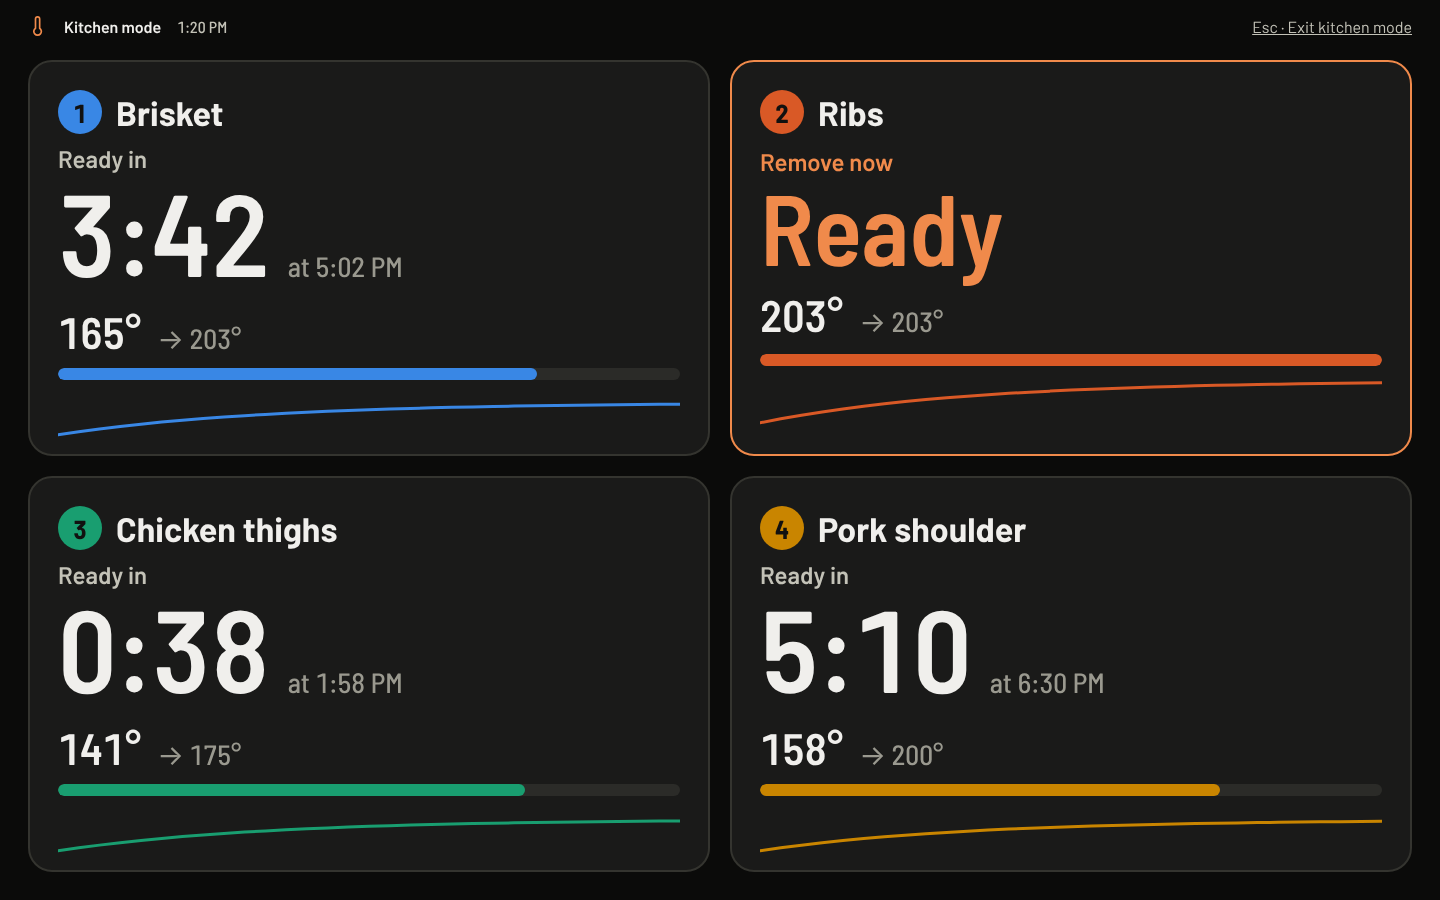
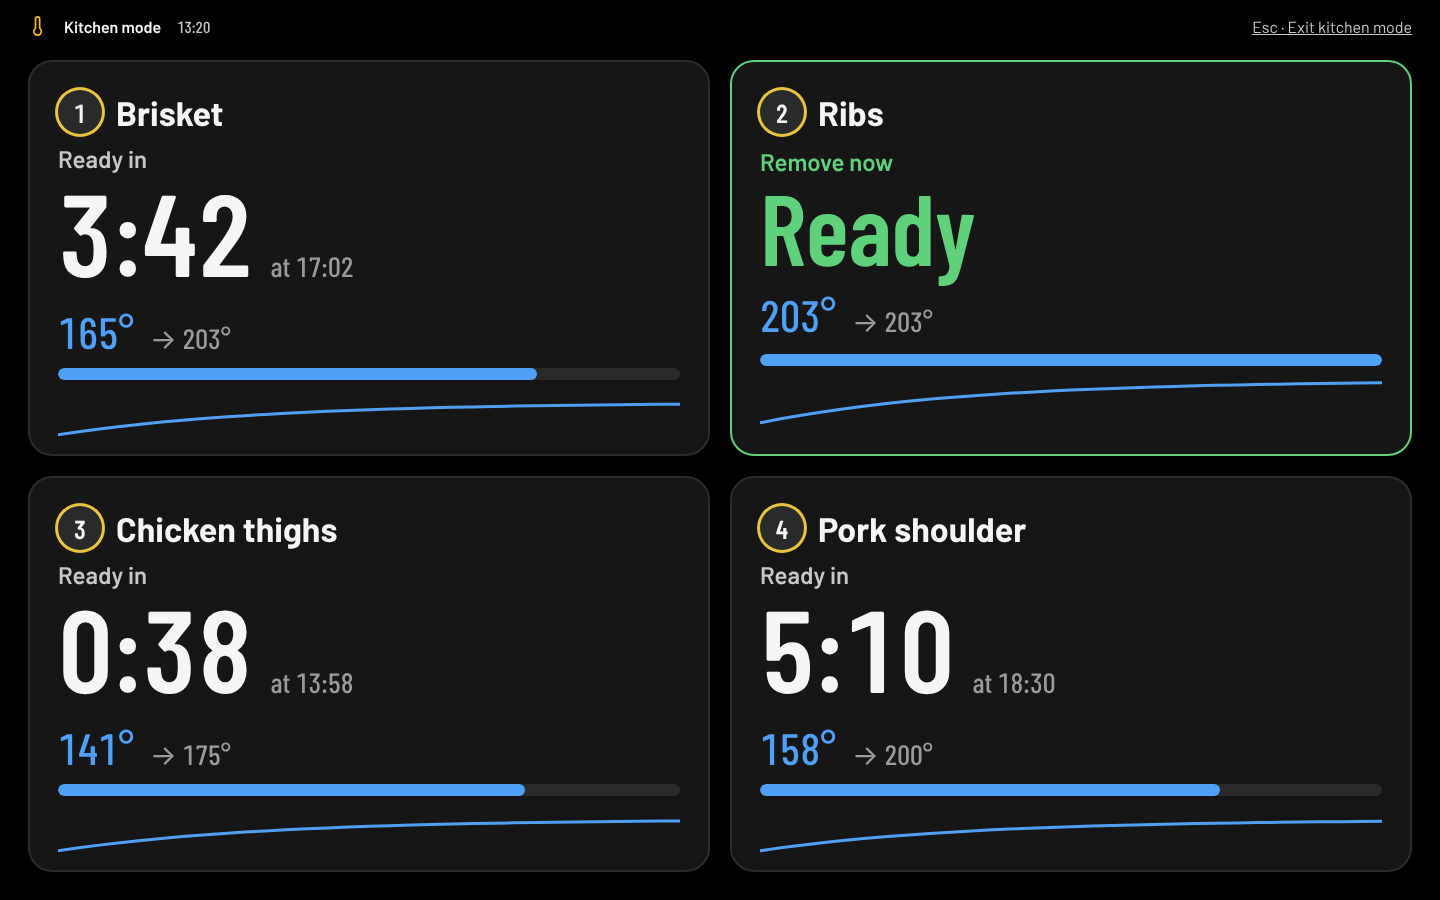
Align design with official app: sensor colors, readout pills, scrub state; refresh screenshots
Claude-Session: https://claude.ai/code/session_01XkQe4iPihTaUX5BRFTHjHt

diff --git a/docs/06-ux-plan.md b/docs/06-ux-plan.md
@@ -347,6 +347,28 @@ Completion time: the chosen format is primary; the other is always shown beside 
 
 Single probe is the most common case. Every surface has a 1-probe version, listed first. Kitchen mode with 1 probe uses a dedicated full-window layout: name and core temperature in the header, 400 px countdown with 72 px secondary time, progress bar and wide trend line.
 
-Screenshots: `docs/design/screenshots/`, regenerated together from the current canvas every time (`render-all.sh` in the scratchpad). Set: Main1, Main1At, Main, MainAlert, Main8, Kitchen1, Kitchen1At, Kitchen, KitchenAlert, LiveActivity, WindowsSurfaces, Sheets, Tokens, Onboarding, History, Settings, SettingsAlerts, SettingsDevices.
+Screenshots: `docs/design/screenshots/`, regenerated together from the current canvas every time (`render-all.sh` in the scratchpad). Set: Main1, Main1-hover, Main1At, Main, MainAlert, Main8, Kitchen1, Kitchen1At, Kitchen, KitchenAlert, LiveActivity, WindowsSurfaces, Sheets, Tokens, Onboarding, History, History-hover, Settings, SettingsAlerts, SettingsDevices.
+
+### 17.5 Alignment with the official app (design pass 2)
+
+From user-supplied screenshots of the official Combustion app (primary).
+
+| Rule | Value |
+|---|---|
+| Line color = sensor | Core `#4ea1f7` blue, Surface `#ffb81c` yellow, Ambient `#f5701f` orange; 3 px solid |
+| Readout row | Colored pill label (black text) over a large condensed number; three columns split by vertical rules |
+| Graph | Rounded card, light grid, axis labels `250°` / `13:00`, target as a light horizontal line labeled at the right (`203°`) |
+| Scrub / hover | Vertical line with a white-ringed dot on each series; readouts switch to the scrubbed values; label above graph shows state + time (`Predicting / 11:24`); leaving the graph returns to live (`Now · 13:20`) |
+| One probe per graph | Graph shows the selected probe's 3 sensors; probe chips switch the selection (replaces the per-probe palette) |
+| Probe identity | Neutral badge with the probe number; ring = physical probe color (yellow / grey) |
+| Background | Pure black window, `#161616` cards, radius 28 for cards |
+| Type | Barlow (text) + Barlow Condensed (numbers) |
+| Time | Follows OS 12/24 h; mocks use 24 h as in the references |
+| History list | Probe icon, title (nickname, else "Predictive Cook" / "Manual Cook"), duration with stacked unit (`hrs/min`, `min/sec`), target with gauge icon, `7d ago • 11 Oct 06:10`, 3-line thumbnail |
+| History detail | Readouts + scrubbable graph + Start · date / End / Duration card |
+| Status | Ready `#5fd17a`, critical `#e5484d`; primary button white on black |
+
+Palette check: contrast ≥ 3:1 on `#161616` and color-blind separation pass; the lightness-band check fails because the official colors are brighter than the reference band. Accepted: every line is also labeled by its pill.
+
 
 Next: empty and error states board; then U2 (tokens.json + component specs).
